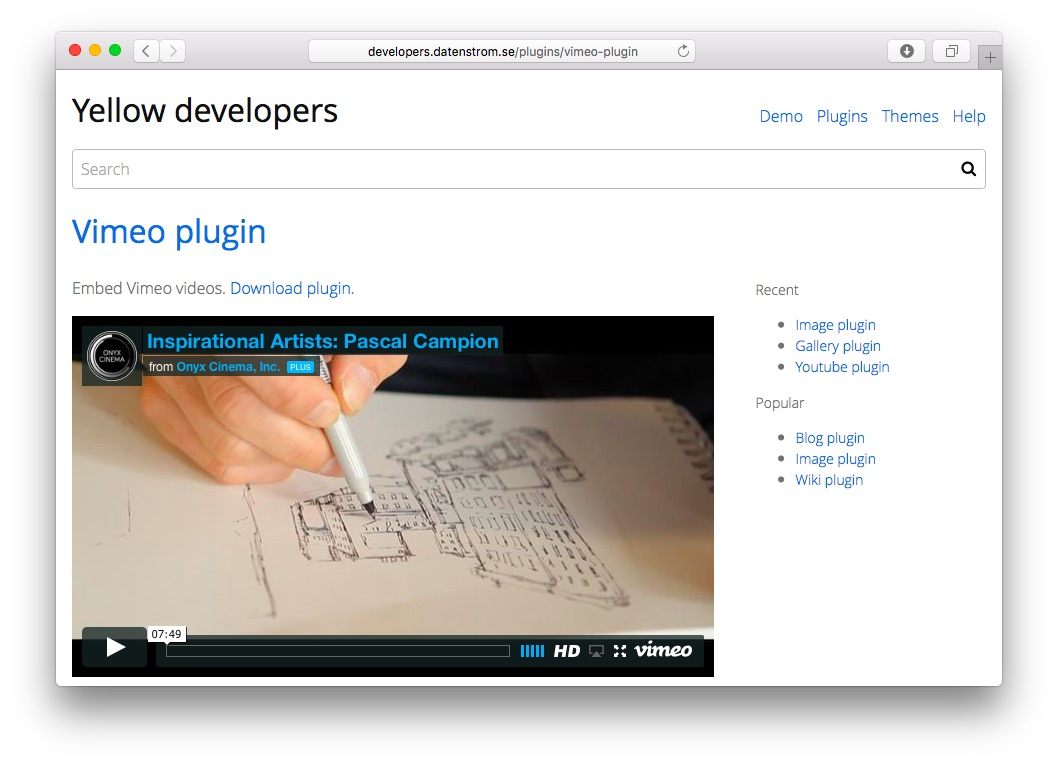
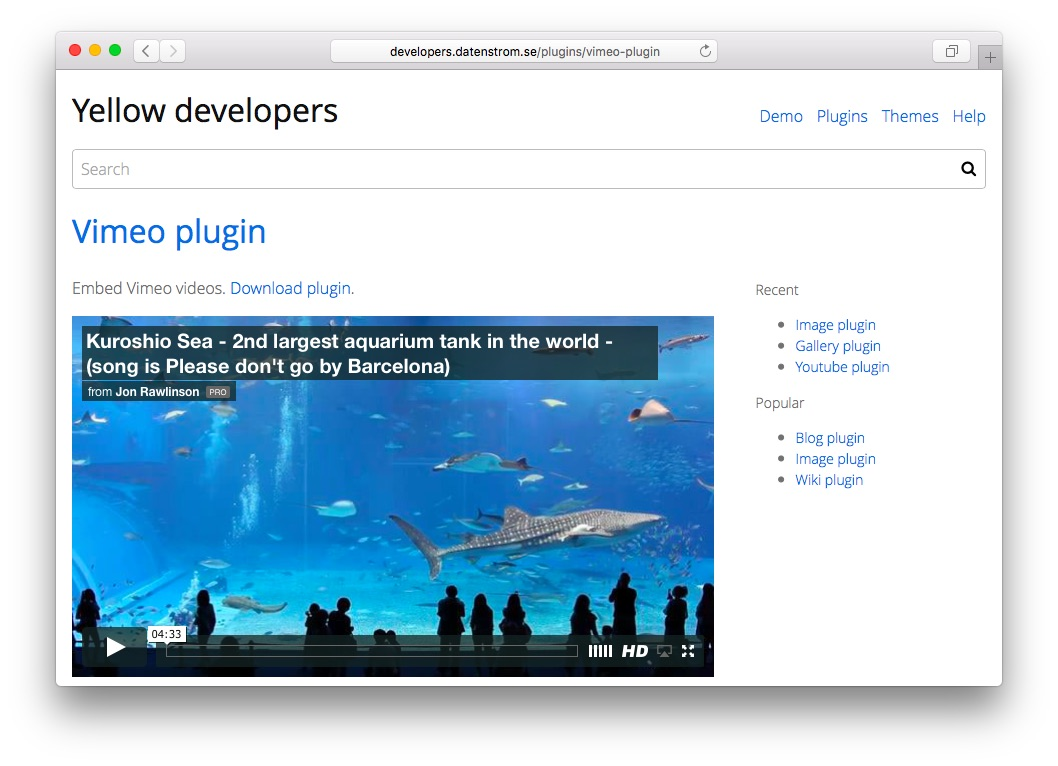
Plugins update (documentation)

diff --git a/vimeo/README.md b/vimeo/README.md
@@ -26,6 +26,6 @@ Example
 -------
 Embedding a video:
 
-    [vimeo 13387502]
-    [vimeo 13387502 left 200 112]
-    [vimeo 13387502 right 200 112]
+    [vimeo 5606758]
+    [vimeo 5606758 left 200 112]
+    [vimeo 5606758 right 200 112]
